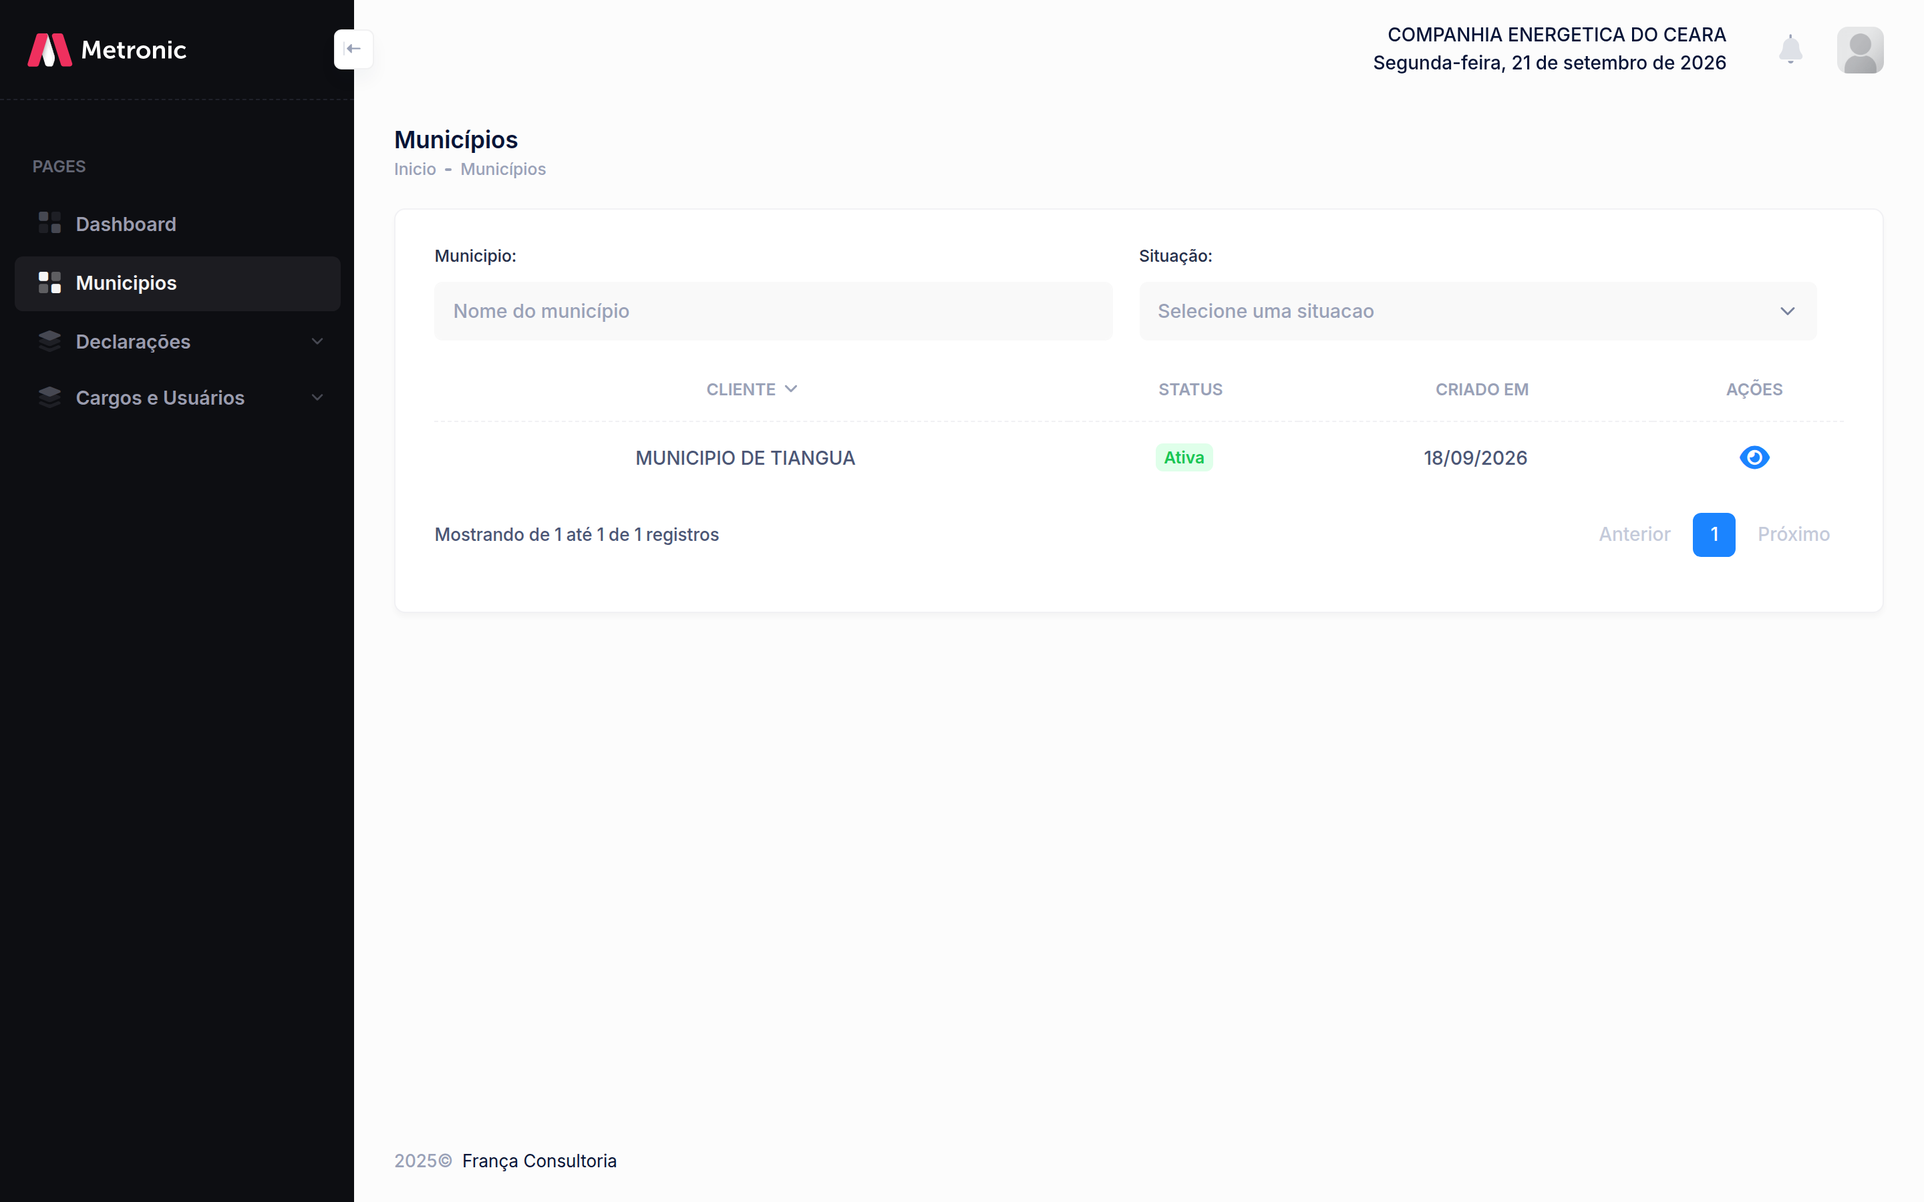
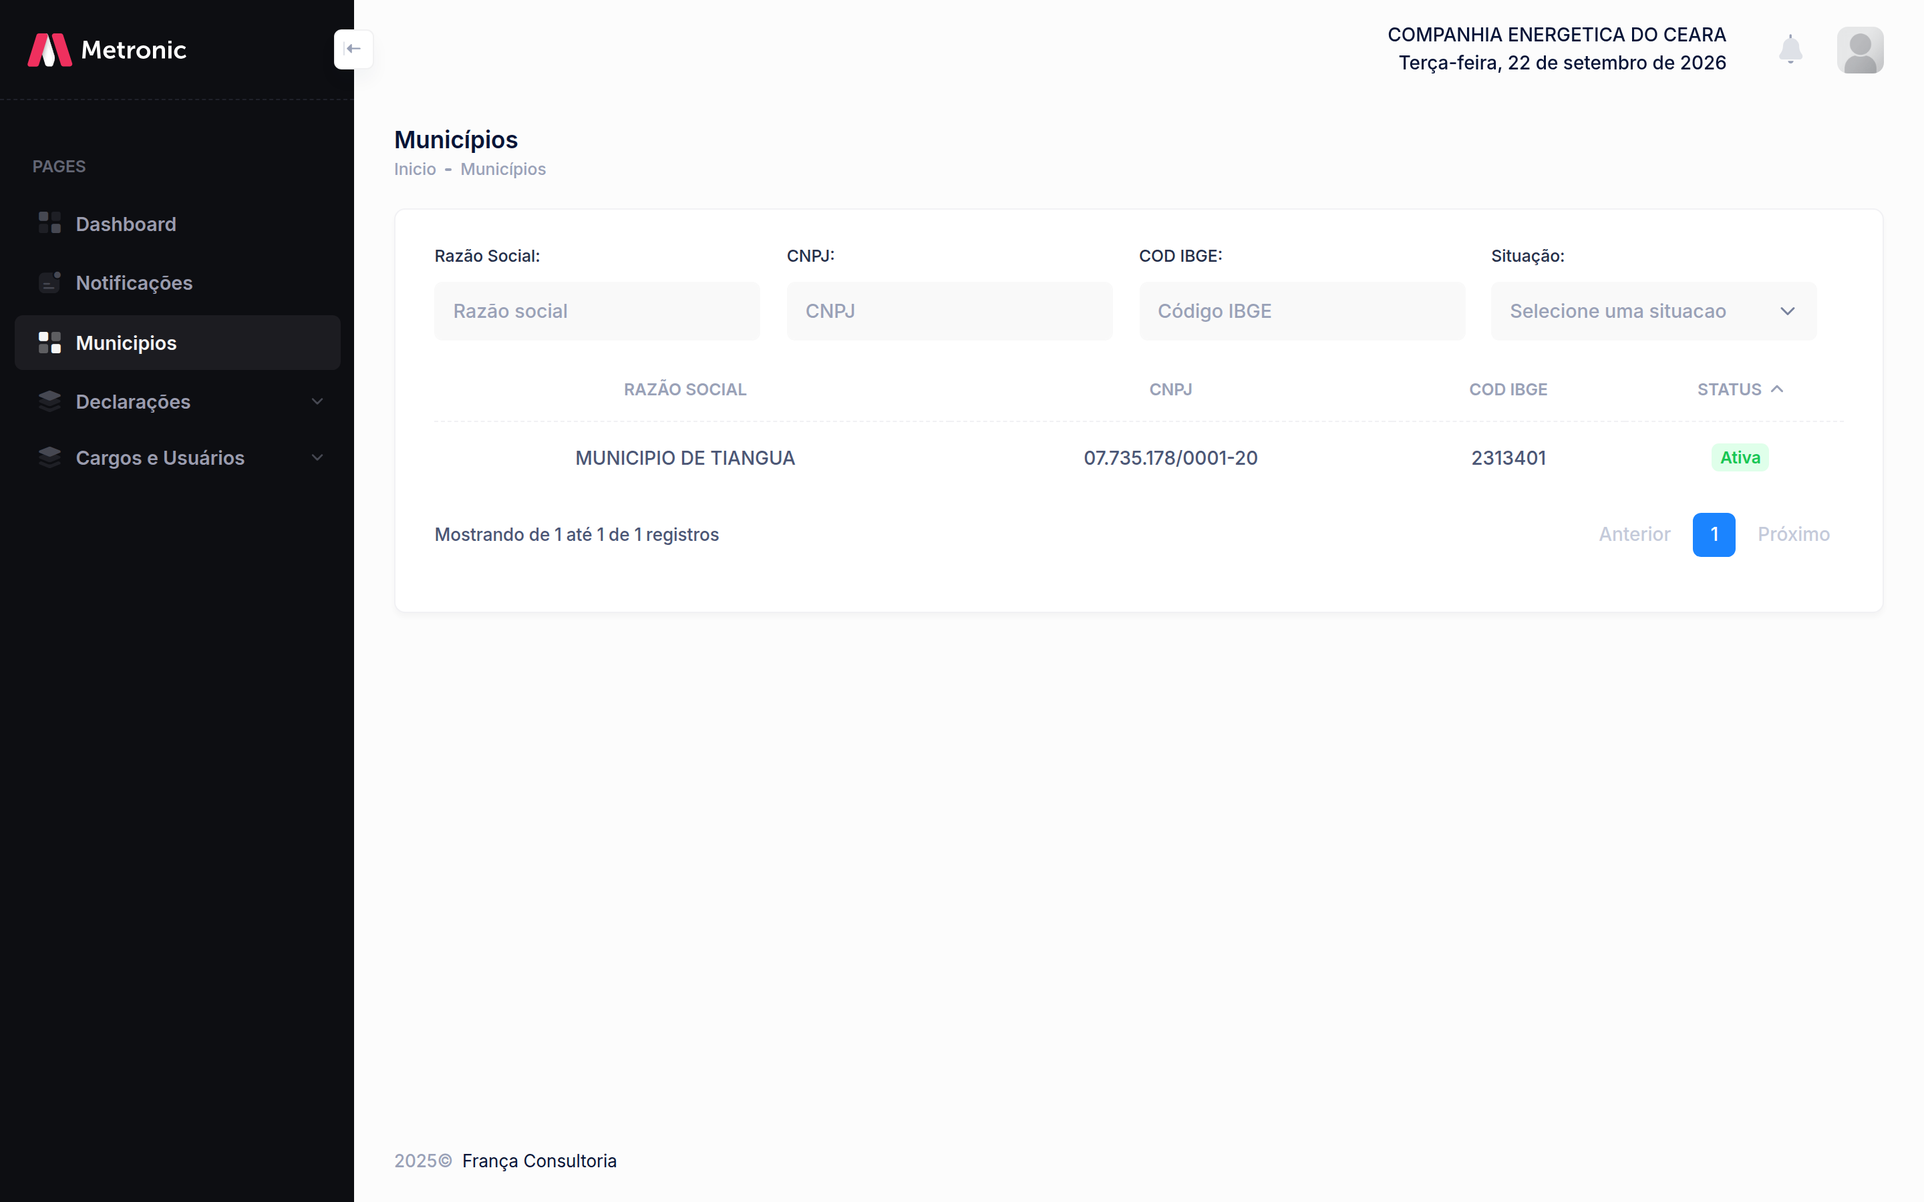
docs: atualiza a listagem de municípios no guia do painel

diff --git a/guia-painel-concessionaria.html b/guia-painel-concessionaria.html
@@ -363,8 +363,7 @@
         <ol class="sub">
           <li><a href="#s2-1">Finalidade</a></li>
           <li><a href="#s2-2">Listagem</a></li>
-          <li><a href="#s2-3">Consulta do vínculo</a></li>
-          <li><a href="#s2-4">Efeito na declaração</a></li>
+          <li><a href="#s2-3">Efeito na declaração</a></li>
         </ol>
       </li>
       <li><a href="#s3">Cargos</a>
@@ -477,23 +476,16 @@
     <div class="secao-titulo">2. Municípios</div>
 
     <div class="subsecao-titulo" id="s2-1">2.1 Finalidade</div>
-    <p>O módulo <strong>Municípios</strong> apresenta os vínculos da concessionária com os municípios. Não há cadastro, alteração nem exclusão neste painel: a tela serve para a concessionária identificar quais municípios integram o seu recorte e em que situação está cada vínculo, antes de gerar a declaração.</p>
+    <p>O módulo <strong>Municípios</strong> apresenta os vínculos da concessionária com os municípios. Não há cadastro, alteração, exclusão nem consulta individual neste painel: a listagem identifica cada município e a situação do vínculo, antes de gerar a declaração.</p>
 
     <div class="subsecao-titulo" id="s2-2">2.2 Listagem</div>
-    <p>A listagem exibe o município (razão social do cliente), o status do vínculo, a data de criação e a consulta. Filtros por nome e por situação (Ativa, Inativa, Suspensa, Cancelada) recortam a mesma relação.</p>
+    <p>As colunas são razão social, CNPJ, código IBGE e status do vínculo. Não há data de criação nem ações. Os filtros são razão social, CNPJ, código IBGE e situação (Ativa, Inativa, Suspensa, Cancelada).</p>
     <figure class="figura">
-      <img src="imagens/painel-concessionaria/07-municipios.png" alt="Listagem de municípios vinculados à concessionária, com status Ativa">
+      <img src="imagens/painel-concessionaria/07-municipios.png" alt="Listagem de municípios com filtros de razão social, CNPJ, código IBGE e situação, e a coluna Status">
       <figcaption><strong>Figura 7.</strong> Municípios vinculados à concessionária. A situação do vínculo aparece na coluna Status.</figcaption>
     </figure>
 
-    <div class="subsecao-titulo" id="s2-3">2.3 Consulta do vínculo</div>
-    <p>A consulta apresenta o status, as datas do vínculo e a identificação do município (razão social, CNPJ e endereço). O conteúdo é informativo; o vínculo não se altera nesta tela.</p>
-    <figure class="figura">
-      <img src="imagens/painel-concessionaria/08-municipio-detalhe.png" alt="Detalhe do município com status Ativa, razão social, CNPJ e endereço">
-      <figcaption><strong>Figura 8.</strong> Consulta do vínculo municipal. Status Ativa indica município admitido no arquivo da competência.</figcaption>
-    </figure>
-
-    <div class="subsecao-titulo" id="s2-4">2.4 Efeito na declaração</div>
+    <div class="subsecao-titulo" id="s2-3">2.3 Efeito na declaração</div>
     <p>O arquivo deve conter apenas municípios com vínculo <strong>ativo</strong>. Vínculo inativo, suspenso ou cancelado não admite bloco <span class="inline-code">0100</span> (<span class="inline-code">MUN-11</span>). Município sem fato gerador na competência é omitido; não existe registro de município sem movimento (<span class="inline-code">EST-04</span>).</p>
     <p>A regra de conteúdo do arquivo está no Manual da Concessionária, seção 2.2.</p>
   </div>
@@ -508,21 +500,21 @@
     <p>A listagem reúne o cargo padrão e os cargos criados pela própria concessionária. Filtro por nome recorta a relação. O cargo padrão exibe apenas consulta; os cargos da concessionária exibem consulta, alteração e exclusão.</p>
     <figure class="figura">
       <img src="imagens/painel-concessionaria/09-cargos.png" alt="Listagem de cargos com o cargo padrão Concessionaria e o botão Adicionar Cargo">
-      <figcaption><strong>Figura 9.</strong> Cargos da concessionária. O cargo padrão aparece com a ação de consulta; Adicionar Cargo abre o cadastro de um cargo próprio.</figcaption>
+      <figcaption><strong>Figura 8.</strong> Cargos da concessionária. O cargo padrão aparece com a ação de consulta; Adicionar Cargo abre o cadastro de um cargo próprio.</figcaption>
     </figure>
 
     <div class="subsecao-titulo" id="s3-3">3.3 Cargo padrão do sistema</div>
     <p>O cargo <strong>Concessionaria</strong> é criado pelo sistema. Não admite alteração de nome, de permissões nem exclusão: na listagem aparece somente a consulta. Ele reúne as capacidades do contexto da concessionária (dashboard, municípios, declarações e gestão de usuários e cargos).</p>
     <figure class="figura">
       <img src="imagens/painel-concessionaria/10-cargo-padrao.png" alt="Detalhes do cargo padrão Concessionaria, com permissões atribuídas por módulo">
-      <figcaption><strong>Figura 10.</strong> Consulta do cargo padrão Concessionaria. As permissões cobrem os módulos do painel; o registro não é editável.</figcaption>
+      <figcaption><strong>Figura 9.</strong> Consulta do cargo padrão Concessionaria. As permissões cobrem os módulos do painel; o registro não é editável.</figcaption>
     </figure>
 
     <div class="subsecao-titulo" id="s3-4">3.4 Novo cargo</div>
     <p>O cadastro exige nome e ao menos uma permissão. O nome não pode coincidir com outro cargo do mesmo contexto, inclusive o padrão. As permissões vêm agrupadas por módulo; cada grupo admite seleção total ou item a item. Há também seleção geral de todas as permissões.</p>
     <figure class="figura">
       <img src="imagens/painel-concessionaria/11-cargo-novo.png" alt="Formulário Criar Novo Cargo, com nome e grupos de permissões">
-      <figcaption><strong>Figura 11.</strong> Cadastro de cargo próprio: nome obrigatório e permissões por módulo, com as capacidades individuais de cada grupo.</figcaption>
+      <figcaption><strong>Figura 10.</strong> Cadastro de cargo próprio: nome obrigatório e permissões por módulo, com as capacidades individuais de cada grupo.</figcaption>
     </figure>
     <table>
       <tr><th>Grupo</th><th>Capacidades</th></tr>
@@ -550,7 +542,7 @@
     <p>A atribuição ocorre no módulo <strong>Usuários</strong>, no cadastro ou na alteração do usuário. Pelo menos um cargo é obrigatório. Os cargos disponíveis são o padrão e os criados pela concessionária. A inclusão de novos usuários no painel cabe ao usuário principal da concessionária.</p>
     <figure class="figura">
       <img src="imagens/painel-concessionaria/12-usuario-atribuir-cargo.png" alt="Formulário Novo Usuário com a lista de cargos para atribuição">
-      <figcaption><strong>Figura 12.</strong> Atribuição de cargo no cadastro de usuário. Com apenas o cargo padrão existente, a lista apresenta Concessionaria.</figcaption>
+      <figcaption><strong>Figura 11.</strong> Atribuição de cargo no cadastro de usuário. Com apenas o cargo padrão existente, a lista apresenta Concessionaria.</figcaption>
     </figure>
   </div>
 
@@ -564,28 +556,28 @@
     <p>A listagem apresenta nome, cargos, e-mail, documento, status e data de criação. Filtros por nome, e-mail e cargo recortam a mesma relação. A inclusão de novos usuários aparece somente para o usuário principal da concessionária, com permissão de gerenciar usuários.</p>
     <figure class="figura">
       <img src="imagens/painel-concessionaria/13-usuarios.png" alt="Listagem de usuários da concessionária, com filtros e o botão Adicionar Usuário">
-      <figcaption><strong>Figura 13.</strong> Usuários da concessionária, com filtros e Adicionar Usuário para o usuário principal. Consulta e alteração ficam em todas as linhas; a exclusão só nas demais contas.</figcaption>
+      <figcaption><strong>Figura 12.</strong> Usuários da concessionária, com filtros e Adicionar Usuário para o usuário principal. Consulta e alteração ficam em todas as linhas; a exclusão só nas demais contas.</figcaption>
     </figure>
 
     <div class="subsecao-titulo" id="s4-3">4.3 Consulta</div>
     <p>A consulta exibe nome, e-mail, documento, status, cargos atribuídos e as datas de cadastro e atualização.</p>
     <figure class="figura">
       <img src="imagens/painel-concessionaria/14-usuario-detalhe.png" alt="Detalhes do usuário com documento, status Ativo e cargo Concessionaria">
-      <figcaption><strong>Figura 14.</strong> Consulta do usuário. O documento coincide com o certificado de autenticação; o status Ativo admite o acesso.</figcaption>
+      <figcaption><strong>Figura 13.</strong> Consulta do usuário. O documento coincide com o certificado de autenticação; o status Ativo admite o acesso.</figcaption>
     </figure>
 
     <div class="subsecao-titulo" id="s4-4">4.4 Novo usuário</div>
     <p>O cadastro exige nome, e-mail, documento (CPF ou CNPJ do certificado) e pelo menos um cargo. A situação inicia como ativo. A senha é opcional: o acesso ao painel da concessionária permanece pelo certificado digital, não por e-mail e senha (seção 1.2). E-mail e documento não podem coincidir com outro usuário já cadastrado.</p>
     <figure class="figura">
       <img src="imagens/painel-concessionaria/15-usuario-novo.png" alt="Formulário Novo Usuário com nome, e-mail, documento, senha, status e cargos">
-      <figcaption><strong>Figura 15.</strong> Cadastro de usuário. Documento é o CPF ou CNPJ do certificado; Cargos é obrigatório.</figcaption>
+      <figcaption><strong>Figura 14.</strong> Cadastro de usuário. Documento é o CPF ou CNPJ do certificado; Cargos é obrigatório.</figcaption>
     </figure>
 
     <div class="subsecao-titulo" id="s4-5">4.5 Alteração e exclusão</div>
     <p>A alteração reedita os mesmos campos. Senha em branco conserva a senha atual. A exclusão remove outro usuário da concessionária. A conta autenticada não exibe a ação de excluir, e o sistema recusa a operação se ela for solicitada. Usuário inativo permanece na listagem, mas o acesso por certificado é recusado (seção 1.4).</p>
     <figure class="figura">
       <img src="imagens/painel-concessionaria/16-usuario-editar.png" alt="Formulário Editar Usuário com os dados preenchidos e o cargo Concessionaria marcado">
-      <figcaption><strong>Figura 16.</strong> Alteração de usuário. Senha em branco não altera a senha vigente; o cargo permanece obrigatório.</figcaption>
+      <figcaption><strong>Figura 15.</strong> Alteração de usuário. Senha em branco não altera a senha vigente; o cargo permanece obrigatório.</figcaption>
     </figure>
     <table>
       <tr><th>Condição</th><th>Efeito</th></tr>
@@ -623,7 +615,7 @@
     <p>A lista não traz arquivo rejeitado nem entrega ainda em validação. Entram somente as declarações municipais com status <strong>Concluído</strong> ou <strong>Retificada</strong>. A consulta abre o detalhe; o download do arquivo aparece na linha, exceto quando o status é Retificada.</p>
     <figure class="figura">
       <img src="imagens/painel-concessionaria/17-declaracoes-ucs.png" alt="Listagem de declarações UCS com filtros de protocolo, tipo e competência, status Concluído e o botão Nova Declaração">
-      <figcaption><strong>Figura 17.</strong> Declarações de UCS. Extrato COSIP/CIP, Extrato IP e Conciliação Financeira repetem os mesmos filtros, colunas e ações; muda o título da página e o item marcado no menu.</figcaption>
+      <figcaption><strong>Figura 16.</strong> Declarações de UCS. Extrato COSIP/CIP, Extrato IP e Conciliação Financeira repetem os mesmos filtros, colunas e ações; muda o título da página e o item marcado no menu.</figcaption>
     </figure>
     <table>
       <tr><th>Coluna</th><th>Conteúdo</th></tr>
@@ -638,14 +630,14 @@
     <p>A consulta, intitulada <strong>Detalhes da Declaração</strong>, mostra município, protocolo, competência, data do protocolo, tipo e módulo. Na retificadora, também mostra o protocolo da declaração retificada. O arquivo pode ser baixado nesta tela, salvo quando a declaração está retificada: nesse caso o download fica indisponível.</p>
     <figure class="figura">
       <img src="imagens/painel-concessionaria/22-declaracao-detalhe-ucs.png" alt="Detalhe da declaração de unidades de consumo do município de Tianguá, com protocolo, competência e botão Baixar Arquivo">
-      <figcaption><strong>Figura 18.</strong> Consulta da declaração municipal. O mesmo cartão vale para os quatro módulos; o campo Módulo identifica a entrega.</figcaption>
+      <figcaption><strong>Figura 17.</strong> Consulta da declaração municipal. O mesmo cartão vale para os quatro módulos; o campo Módulo identifica a entrega.</figcaption>
     </figure>
 
     <div class="subsecao-titulo" id="s5-5">5.5 Envio do arquivo</div>
     <p><strong>Nova Declaração</strong> abre o mesmo formulário nos quatro módulos. O único campo é o arquivo <span class="inline-code">.p7s</span>, arrastado para a área ou escolhido no computador. O formato aceito é P7S, um arquivo por envio. <strong>Importar</strong> inicia a validação; <strong>Cancelar</strong> fecha a janela sem enviar.</p>
     <figure class="figura">
       <img src="imagens/painel-concessionaria/21-declaracao-upload-ucs.png" alt="Janela Importar Cadastro de Ucs com a área para arrastar o arquivo p7s e os botões Cancelar e Importar">
-      <figcaption><strong>Figura 19.</strong> Envio do arquivo de UCS. Nos demais módulos a janela é a mesma; o título passa a Importar Extrato COSIP/CIP, Importar Extrato IP ou Importar Conciliação Financeira.</figcaption>
+      <figcaption><strong>Figura 18.</strong> Envio do arquivo de UCS. Nos demais módulos a janela é a mesma; o título passa a Importar Extrato COSIP/CIP, Importar Extrato IP ou Importar Conciliação Financeira.</figcaption>
     </figure>
     <p>Arquivo ausente, formato diferente de P7S ou tamanho acima do limite é recusado antes da validação de conteúdo. Se já existir validação ou processamento em andamento de um módulo que bloqueia o envio, o painel recusa o arquivo e pede para aguardar a finalização. O aviso informa o módulo em andamento, o protocolo e a etapa atual.</p>
     <table>
@@ -657,14 +649,14 @@
     </table>
     <figure class="figura">
       <img src="imagens/painel-concessionaria/30-declaracao-em-andamento.png" alt="Aviso de que não é possível iniciar a declaração UC porque há processamento em andamento">
-      <figcaption><strong>Figura 22.</strong> Envio recusado enquanto há validação ou processamento em andamento. O mesmo aviso cobre o bloqueio do próprio módulo e o bloqueio cruzado entre UCS e Extrato COSIP/CIP.</figcaption>
+      <figcaption><strong>Figura 21.</strong> Envio recusado enquanto há validação ou processamento em andamento. O mesmo aviso cobre o bloqueio do próprio módulo e o bloqueio cruzado entre UCS e Extrato COSIP/CIP.</figcaption>
     </figure>
 
     <div class="subsecao-titulo" id="s5-6">5.6 Validação em andamento</div>
     <p>Depois do envio, a mesma janela passa a acompanhar a validação. O título é <strong>Validando arquivo</strong>, com a situação <strong>Em andamento</strong>, o nome do arquivo, a barra de progresso e a lista de etapas. A janela pede para permanecer aberta até o comprovante de entrega. Enquanto a validação não termina, ela não se fecha pelo fundo nem pela tecla Esc.</p>
     <figure class="figura">
       <img src="imagens/painel-concessionaria/26-declaracao-validando.png" alt="Janela Validando arquivo, em andamento, com a etapa Validando municípios e registros">
-      <figcaption><strong>Figura 20.</strong> Validação em andamento. A mesma janela vale para os quatro módulos; mudam o nome do arquivo e o rótulo do módulo.</figcaption>
+      <figcaption><strong>Figura 19.</strong> Validação em andamento. A mesma janela vale para os quatro módulos; mudam o nome do arquivo e o rótulo do módulo.</figcaption>
     </figure>
     <p>Se a consulta do andamento falhar várias vezes seguidas, a janela informa <strong>Acompanhamento indisponível</strong> e orienta a atualizar a listagem para ver o estado da entrega.</p>
 
@@ -672,7 +664,7 @@
     <p>No aceite, o título muda para <strong>Arquivo aceito</strong> e a situação para <strong>Aceito</strong>. O comprovante traz o protocolo e o identificador da declaração. A orientação é guardar o número do protocolo; o tratamento posterior segue no sistema. Se houver alertas, a janela oferece <strong>Ver Alertas de Validação</strong>, com código, linha, campo, mensagem, valor encontrado e valor esperado, além do relatório completo para download.</p>
     <figure class="figura">
       <img src="imagens/painel-concessionaria/27-declaracao-resultado.png" alt="Janela Arquivo aceito com comprovante de entrega, protocolo e botão Fechar">
-      <figcaption><strong>Figura 21.</strong> Aceite da declaração. O comprovante mostra o protocolo da entrega e o identificador da declaração.</figcaption>
+      <figcaption><strong>Figura 20.</strong> Aceite da declaração. O comprovante mostra o protocolo da entrega e o identificador da declaração.</figcaption>
     </figure>
     <p>O alerta não rejeita o arquivo. Encerrada a janela, as declarações municipais dessa entrega passam a constar na listagem com status Concluído.</p>
 
@@ -680,12 +672,12 @@
     <p>Quando a validação encontra erro bloqueante, o título é <strong>Validação encontrou erros</strong> e a situação é <strong>Erros</strong>. A barra indica <strong>Validação falhou</strong>, as etapas com inconsistência aparecem em vermelho e a mensagem pede para corrigir e reenviar o arquivo.</p>
     <figure class="figura">
       <img src="imagens/painel-concessionaria/28-declaracao-erros.png" alt="Janela Validação encontrou erros, com a barra Validação falhou, etapas em vermelho e o botão Ver Erros Detalhados">
-      <figcaption><strong>Figura 23.</strong> Rejeição do arquivo. A mesma janela vale para os quatro módulos. <strong>Ver Erros Detalhados</strong> abre o relatório; <strong>Fechar</strong> encerra sem gerar declaração municipal.</figcaption>
+      <figcaption><strong>Figura 22.</strong> Rejeição do arquivo. A mesma janela vale para os quatro módulos. <strong>Ver Erros Detalhados</strong> abre o relatório; <strong>Fechar</strong> encerra sem gerar declaração municipal.</figcaption>
     </figure>
     <p><strong>Ver Erros Detalhados</strong> abre o relatório na mesma estrutura dos alertas: resumo por categoria, amostra das ocorrências em cada categoria e o relatório completo para download, em <strong>Baixar Relatório</strong> e em <strong>Baixar TXT</strong>.</p>
     <figure class="figura">
       <img src="imagens/painel-concessionaria/29-declaracao-erros-detalhados.png" alt="Janela Erros de Validação com resumo por categoria Município e botões Baixar Relatório e Baixar TXT">
-      <figcaption><strong>Figura 24.</strong> Relatório de erros. O exemplo traz uma ocorrência na categoria Município. Cada categoria abre a amostra das linhas; o relatório completo fica disponível para download.</figcaption>
+      <figcaption><strong>Figura 23.</strong> Relatório de erros. O exemplo traz uma ocorrência na categoria Município. Cada categoria abre a amostra das linhas; o relatório completo fica disponível para download.</figcaption>
     </figure>
     <p>Arquivo rejeitado não gera declaração municipal e não aparece na listagem. Não há protocolo de município para essa entrega.</p>
     <table>
